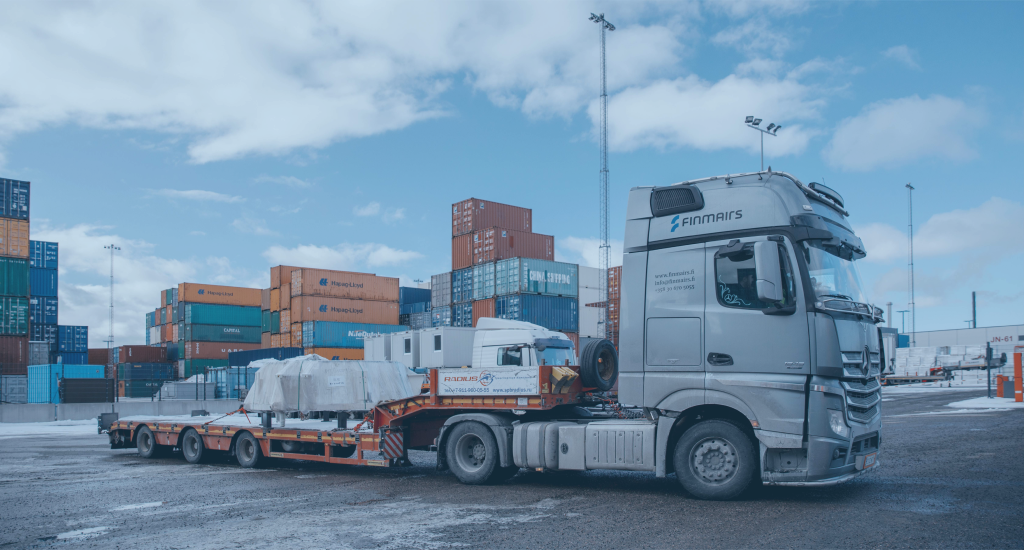
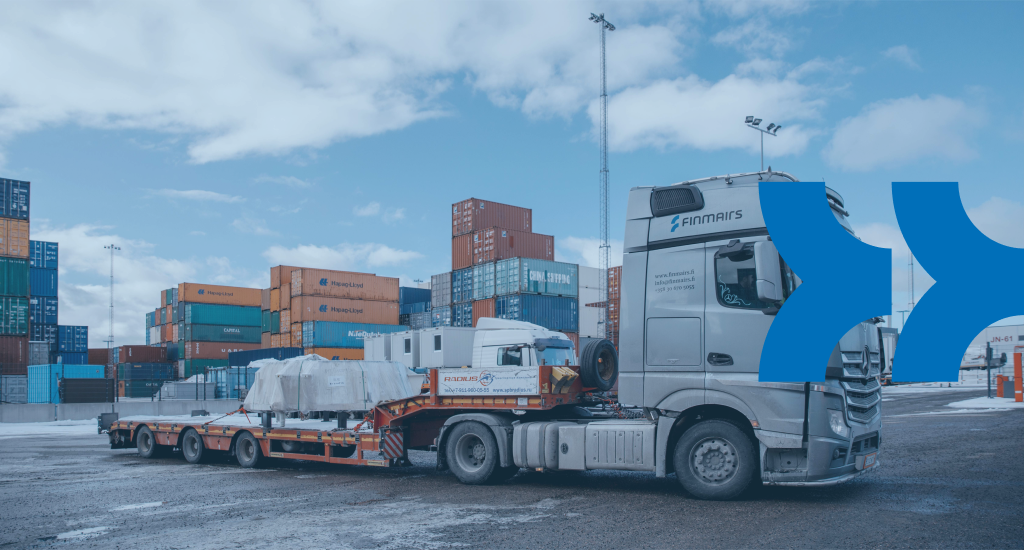
Header

Changed region(s): [[0.7188, 0.3085, 1.0, 0.7096]]

diff --git a/components/Footer/index.tsx b/components/Footer/index.tsx
@@ -3,6 +3,7 @@ import Link from 'next/link';
 import Image from 'next/image';
 
 import styles from './Footer.module.css';
+import SocialButtons from '../SocialButtons';
 
 const Footer: React.FC = () => {
   return (
@@ -20,49 +21,8 @@ const Footer: React.FC = () => {
 
       <footer className={styles.footer}>
         <div className={styles.text20}>We serve in Finnish and English</div>
-        <div className={styles.block}>
-          <Link
-            href="https://whatsapp.com"
-            target="_blank"
-            rel="noopener noreferrer"
-          >
-            <Image
-              src="/img/icon_whatsapp.svg"
-              alt="WhatsApp"
-              width={20}
-              height={20}
-              className={styles.icon}
-              quality={100}
-            />
-          </Link>
-          <Link
-            href="https://Instagram.com"
-            target="_blank"
-            rel="noopener noreferrer"
-          >
-            <Image
-              src="/img/icon_instagram.svg"
-              alt="Instagram"
-              width={20}
-              height={20}
-              className={styles.icon}
-              quality={100}
-            />
-          </Link>
-          <Link
-            href="https://messenger.com" // TODO: change this
-            target="_blank"
-            rel="noopener noreferrer"
-          >
-            <Image
-              src="img/icon_messenger.svg"
-              alt="Messenger"
-              width={20}
-              height={20}
-              className={styles.icon}
-              quality={100}
-            />
-          </Link>
+        <div style={{ marginBottom: '84px' }}>
+          <SocialButtons variant={'white'} />
         </div>
         <div className={styles.text14}>
           <Link href={'mailto:info@finmairs.fi'}>info@finmairs.fi</Link>, 044

diff --git a/components/Header/index.tsx b/components/Header/index.tsx
@@ -1,0 +1,52 @@
+import React from 'react';
+import Link from 'next/link';
+import Image from 'next/image';
+import SocialButtons from '../SocialButtons';
+
+import styles from './Header.module.css';
+
+const Header = () => {
+  return (
+    <section className={styles.header}>
+      <div className={styles.logo}>
+        <Image src="/img/logo.svg" alt="Finmairs" width={154} height={36} />
+      </div>
+      <nav className={styles.menu}>
+        <ul className={styles.horizontal}>
+          <li className={styles.menuitem}>
+            <Link href="#about-us">About Us</Link>
+          </li>
+          <li className={styles.menuitem}>
+            <Link href="#services">Services</Link>
+          </li>
+          <li className={styles.menuitem}>
+            <Link href="#contacts">Contacts</Link>
+          </li>
+        </ul>
+      </nav>
+      <div className={styles.contacts}>
+        <div className={styles.contact}>
+          <Link
+            href={'tel:+358445174878'}
+            target="_blank"
+            rel="noopener noreferrer"
+          >
+            044 517 4878
+          </Link>
+        </div>
+        <div className={styles.contact}>
+          <Link
+            href={'mailto:info@finmairs.fi'}
+            target="_blank"
+            rel="noopener noreferrer"
+          >
+            info@finmairs.fi
+          </Link>
+        </div>
+      </div>
+      <SocialButtons variant="blue" />
+    </section>
+  );
+};
+
+export default Header;

diff --git a/components/SocialButtons/index.tsx b/components/SocialButtons/index.tsx
@@ -1,0 +1,56 @@
+import React from 'react';
+import Link from 'next/link';
+import Image from 'next/image';
+
+import styles from './SocialButtons.module.css';
+
+type Variant = 'white' | 'blue';
+
+interface Props {
+  variant: Variant;
+}
+
+const SocialButtons: React.FC<Props> = ({ variant = 'white' }) => (
+  <div className={styles.block}>
+    <Link href="https://whatsapp.com" target="_blank" rel="noopener noreferrer">
+      <Image
+        src={`/img/icon_whatsapp${variant === 'blue' ? '-blue' : ''}.svg`}
+        alt="WhatsApp"
+        width={20}
+        height={20}
+        className={styles.icon}
+        quality={100}
+      />
+    </Link>
+    <Link
+      href="https://Instagram.com"
+      target="_blank"
+      rel="noopener noreferrer"
+    >
+      <Image
+        src={`/img/icon_instagram${variant === 'blue' ? '-blue' : ''}.svg`}
+        alt="Instagram"
+        width={20}
+        height={20}
+        className={styles.icon}
+        quality={100}
+      />
+    </Link>
+    <Link
+      href="https://messenger.com" // TODO: change this
+      target="_blank"
+      rel="noopener noreferrer"
+    >
+      <Image
+        src={`img/icon_messenger${variant === 'blue' ? '-blue' : ''}.svg`}
+        alt="Messenger"
+        width={20}
+        height={20}
+        className={styles.icon}
+        quality={100}
+      />
+    </Link>
+  </div>
+);
+
+export default SocialButtons;

diff --git a/components/Header/Line.tsx b/components/Header/Line.tsx
@@ -1,0 +1,27 @@
+import React from 'react';
+import Image from 'next/image';
+import styles from './Line.module.css';
+
+const Line = () => (
+  <div className={styles.thing}>
+    <div className={styles.line}></div>
+    <div className={styles.flex}>
+      <div className={`${styles.dot} ${styles.blue}`}></div>
+      <div className={styles.triangle}>
+        <Image src="/img/triangle.svg" height="7" width="10" alt={'svg'} />
+      </div>
+      <div className={styles.triangle}>
+        <Image src="/img/triangle.svg" height="7" width="10" alt={'svg'} />
+      </div>
+      <div className={styles.triangle}>
+        <Image src="/img/triangle.svg" height="7" width="10" alt={'svg'} />
+      </div>
+      <div className={styles.triangle}>
+        <Image src="/img/triangle.svg" height="7" width="10" alt={'svg'} />
+      </div>
+      <div className={`${styles.dot} ${styles.orange}`}></div>
+    </div>
+  </div>
+);
+
+export default Line;

diff --git a/components/Header/Line.module.css b/components/Header/Line.module.css
@@ -1,0 +1,43 @@
+.thing {
+  max-width: 1024px;
+  margin: 15px auto 0;
+  position: relative;
+}
+
+.line {
+  height: 1px;
+  width: 100%;
+  background-color: #B3B3B3;
+}
+
+.dot {
+  height: 10px;
+  width: 10px;
+  border-radius: 50%;
+  display: inline-block;
+}
+
+.orange {
+  background-color: #FF6633;
+  right: -10px;
+}
+
+.blue {
+  background-color: #006FB9;
+  left: -10px;
+}
+
+.flex {
+  z-index: 100;
+  top: -10px;
+  position: absolute;
+  display: flex;
+  align-items: center;
+  justify-content: space-between;
+  width: 100%;
+  max-width: 1024px;
+}
+
+.triangle {
+  margin-top: -3px;
+}

diff --git a/pages/index.tsx b/pages/index.tsx
@@ -4,11 +4,14 @@ import Directions from '../components/Directions';
 import RepeatingSection from '../components/RepeatingSection';
 import About from '../components/About';
 import Carousel from '../components/Carousel';
+import Header from '../components/Header';
+import Line from '../components/Header/Line';
 
 const Home: React.FC = () => {
   return (
     <div>
-      <p style={{ height: '1000px' }}></p>
+      <Header />
+      <Line />
       <Carousel />
       <About />
       <RepeatingSection />

diff --git a/components/Header/Header.module.css b/components/Header/Header.module.css
@@ -1,0 +1,33 @@
+/* components/Header/Header.module.css */
+.header {
+  display: flex;
+  justify-content: space-between;
+  align-items: center;
+}
+
+.contacts {
+  display: flex;
+}
+
+.contact {
+  margin: 0 10px;
+  color: #006FB9;
+  transition: color 0.3s;
+}
+
+.contact:hover {
+  color: #025e9c;
+  text-shadow: -1px 1px 1px #006fb92b;
+
+}
+
+.horizontal {
+  list-style: none;
+  margin: 0;
+  padding: 0;
+  display: flex;
+}
+
+.menuitem {
+  margin-right: 20px;
+}

diff --git a/components/Footer/Footer.module.css b/components/Footer/Footer.module.css
@@ -25,12 +25,6 @@
     margin-bottom: 84px;
 }
 
-.icon {
-  width: 20px;
-    height: 20px;
-    transition: color 0.3s;
-}
-
 .text20 {
   font-size: 20px;
 }

diff --git a/components/SocialButtons/SocialButtons.module.css b/components/SocialButtons/SocialButtons.module.css
@@ -1,0 +1,11 @@
+.block {
+  display: flex;
+  align-items: center;
+  gap: 25px;
+}
+
+.icon {
+  width: 20px;
+  height: 20px;
+  transition: color 0.3s;
+}
